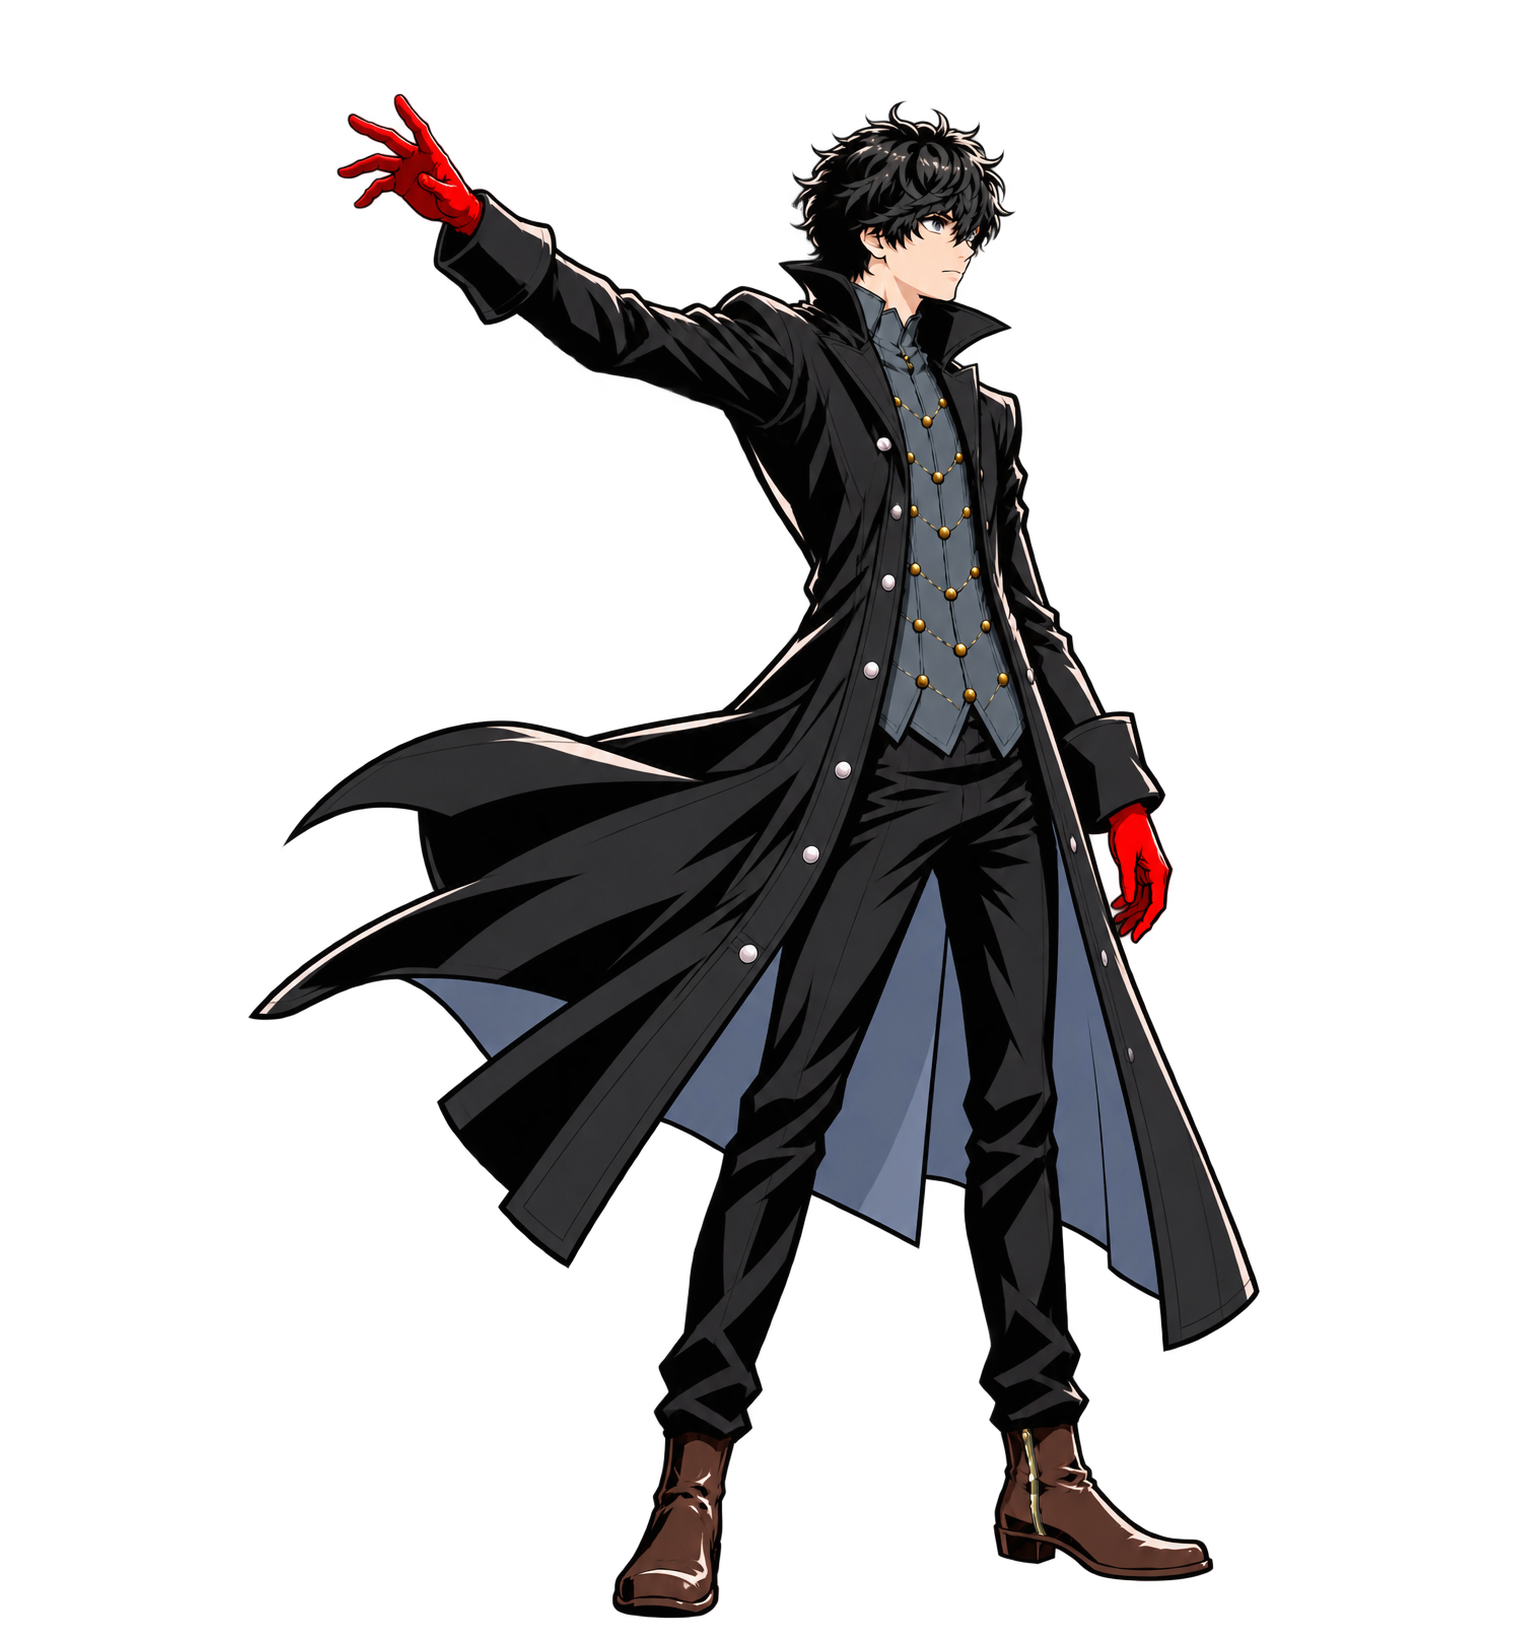
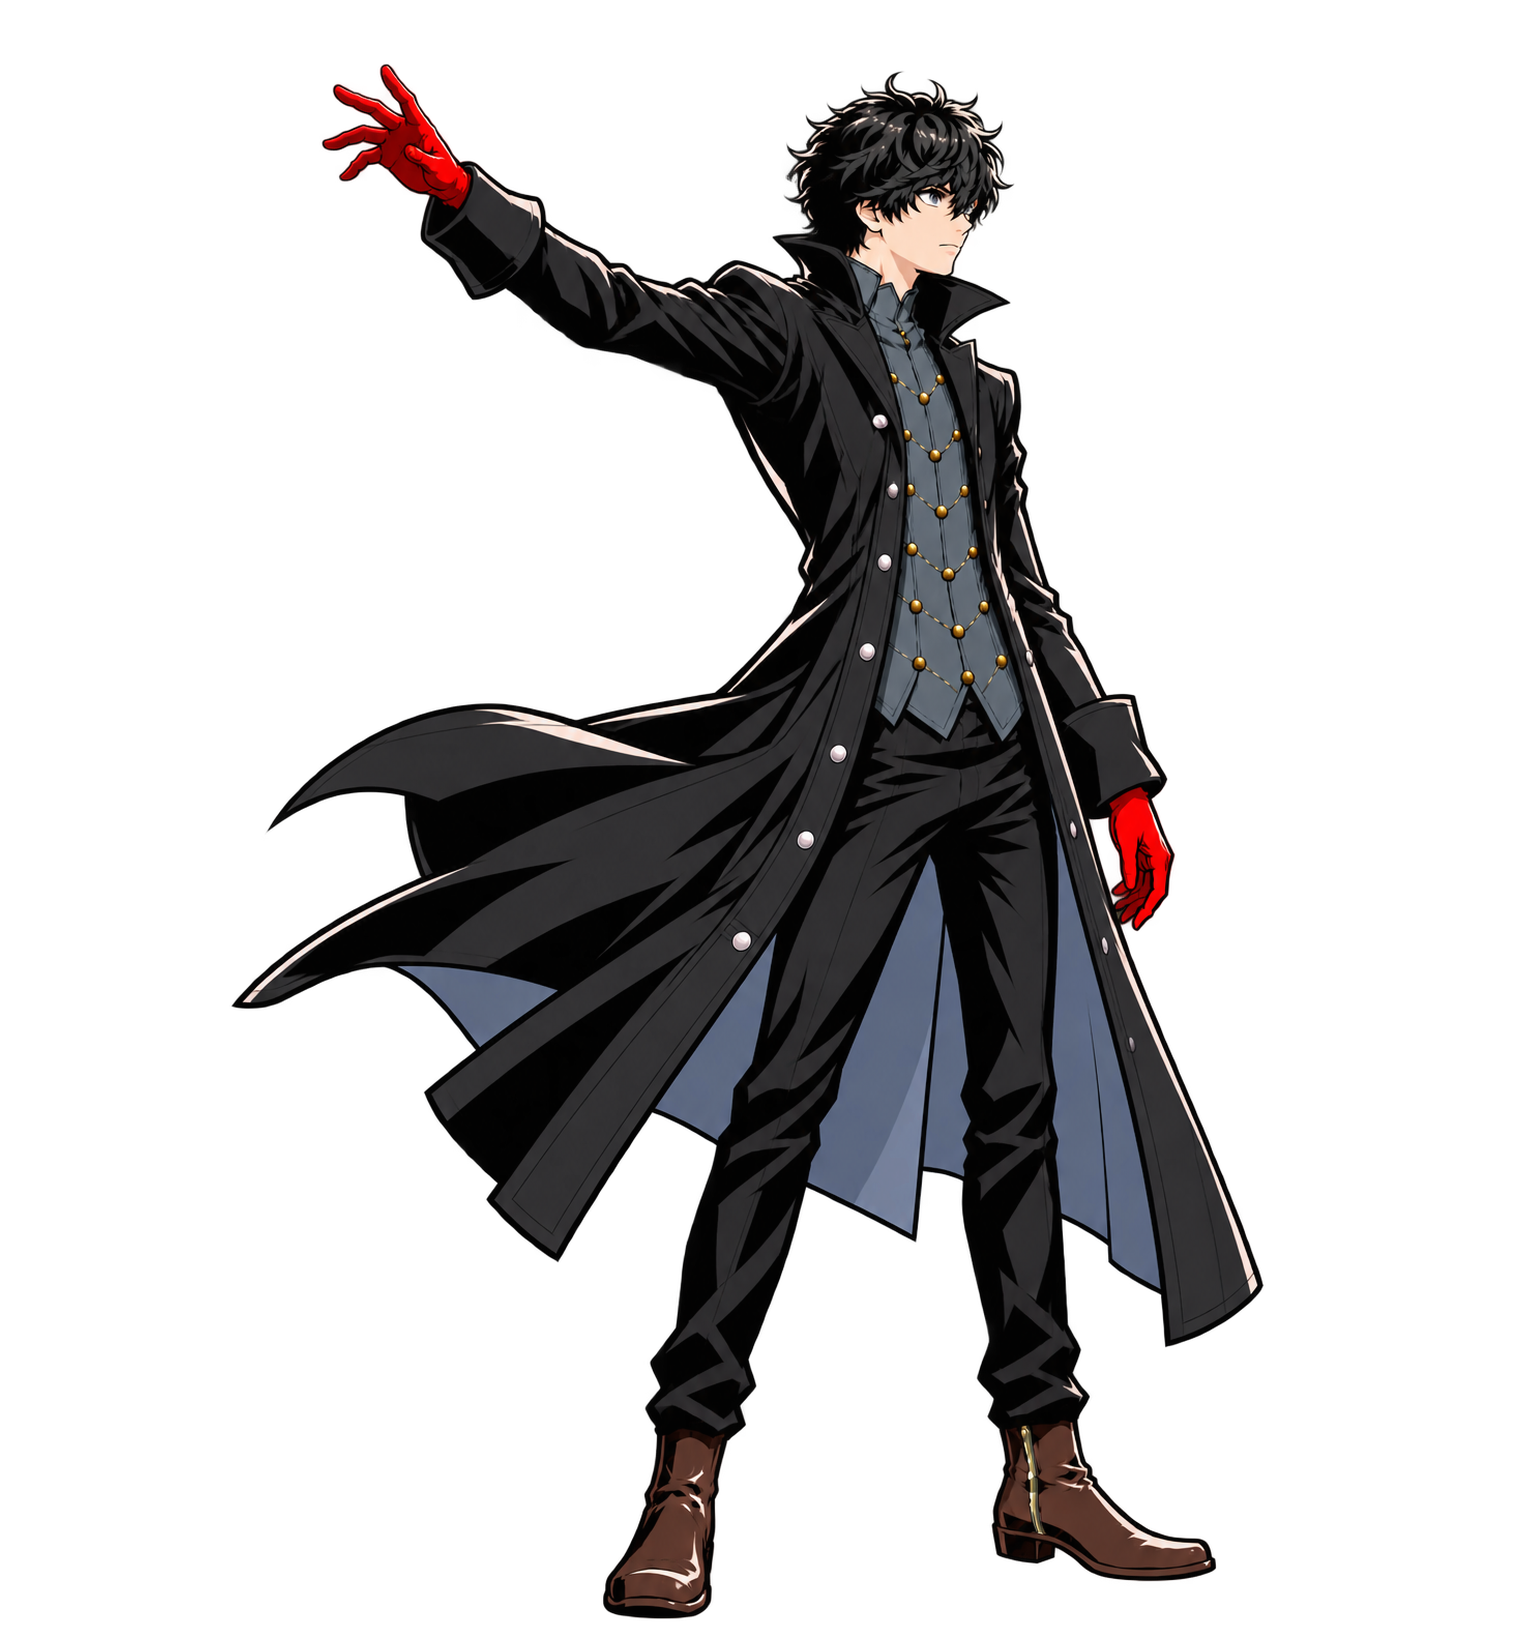
art: P5 summon release/settle scaled to 1.035 (read small)
Claude-Session: https://claude.ai/code/session_01Nam5m2bn9ofCCWTGM6fwcN

Changed region(s): [[0.1562, 0.0312, 0.8438, 1.0], [0.625, 0.7812, 0.8125, 0.9688], [0.3125, 0.7188, 0.3438, 0.75]]

diff --git a/tools/p5/normalize_poses.py b/tools/p5/normalize_poses.py
@@ -28,8 +28,8 @@ POSES = {'idle_a3': (1.0, 'rear'), 'guard_a2': (1.0, 'front'), 'knife_ready_a': 
          'gun_draw_a2': (1.0, 'rear'), 'gun_a2': (1.03, 'rear'), 'gun_raise_a2': (1.03, 'rear'), 'gun_recoil_a6': (1.045, 'rear'),
          'gun_step_a': (1.0, 'rear'), 'knife_draw_a': (1.0, 'rear'), 'slash_recover_a': (1.0, 'mid'),
          'knife_set_a': (1.0, 'rear'), 'knife_return_a': (1.0, 'mid'), 'gun_lift_mid_a': (1.0, 'rear'),
-         'gun_lift_near_a': (1.0, 'rear'), 'summon_hold_a': (1.0, 'front'), 'summon_rip_a2': (1.0, 'front'), 'summon_release_a': (1.015, 'front'),
-         'summon_lift1_a': (1.0, 'front'), 'summon_lift2_a': (1.0, 'front'), 'summon_fling_a': (1.015, 'front'), 'summon_settle_a': (1.015, 'front'),
+         'gun_lift_near_a': (1.0, 'rear'), 'summon_hold_a': (1.0, 'front'), 'summon_rip_a2': (1.0, 'front'), 'summon_release_a': (1.035, 'front'),
+         'summon_lift1_a': (1.0, 'front'), 'summon_lift2_a': (1.0, 'front'), 'summon_fling_a': (1.015, 'front'), 'summon_settle_a': (1.035, 'front'),
          'summon_lift_mid_a': (1.0, 'front'), 'summon_touch1_a': (1.0, 'front'), 'summon_touch2_a': (1.0, 'front'),
          'summon_fling1_a': (1.015, 'front'), 'summon_fling2_a': (1.015, 'front'),
          'summon_lift_bridge_a': (1.0, 'front'), 'summon_touch_mid_a': (1.0, 'front'), 'summon_contact_a': (1.0, 'front')}
